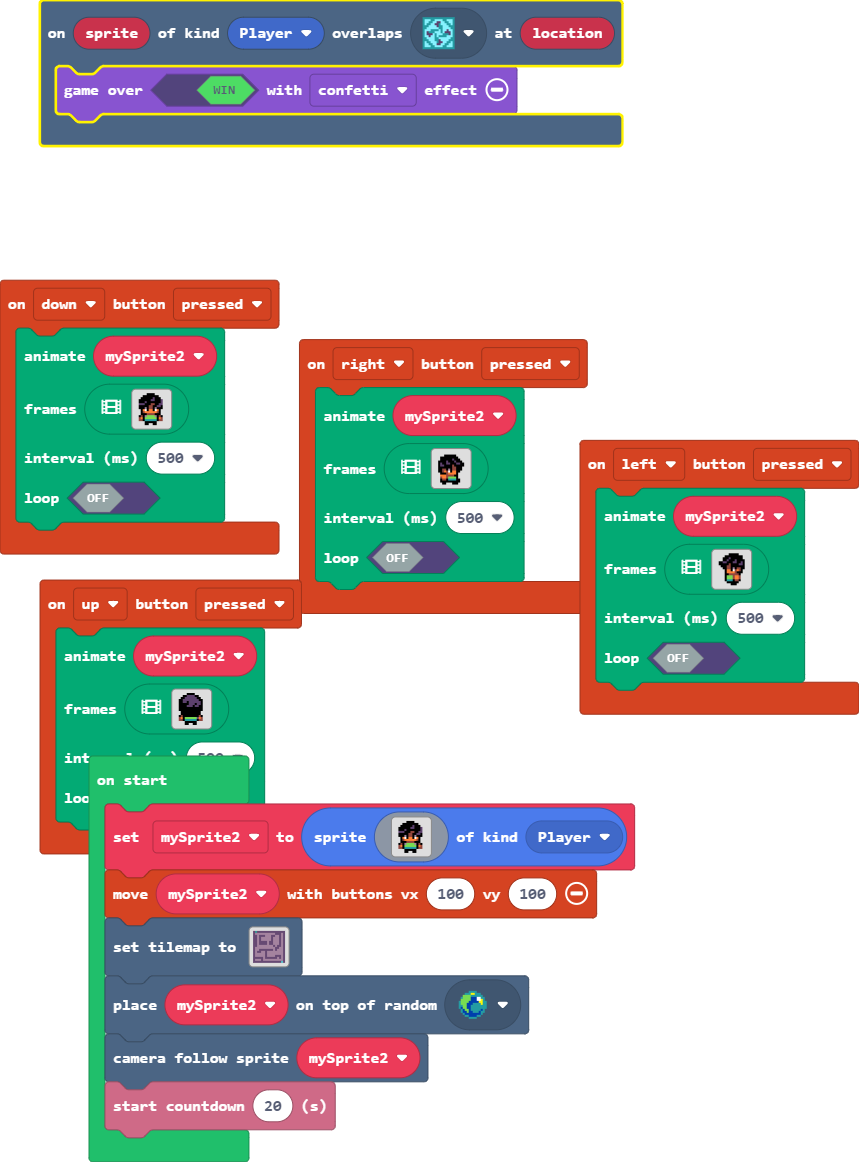
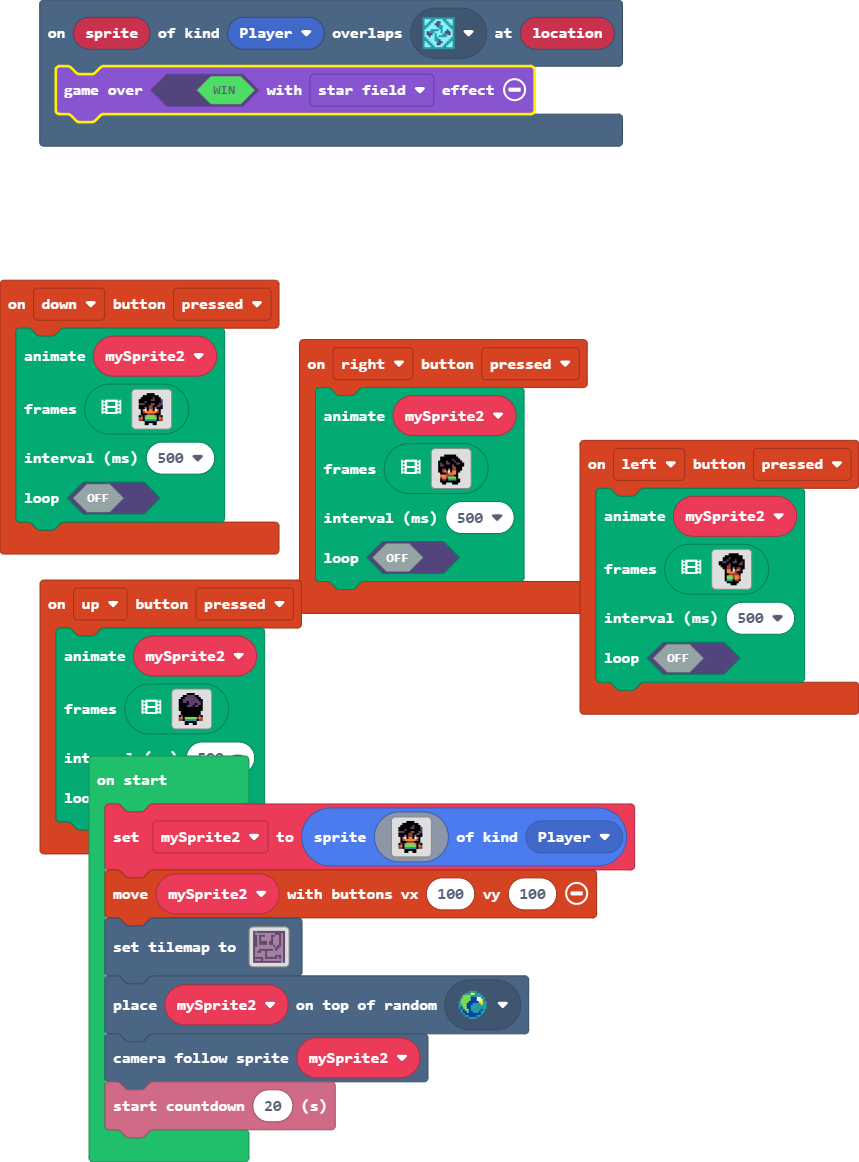
Update main.blocks, main.ts, tilemap.g.jres, tilemap.g.ts

Changed region(s): [[0.0605, 0.0, 0.7264, 0.1549], [0.0303, 0.0, 0.0605, 0.1239]]

diff --git a/tilemap.g.ts b/tilemap.g.ts
@@ -83,6 +83,25 @@ namespace myTiles {
 . . . . . . . . . . . . . . . . 
 . . . . . . . . . . . . . . . . 
 `, [myTiles.transparency16], TileScale.Sixteen);
+            case "level3":
+            case "level3":return tiles.createTilemap(hex`1000100000000000000000000000000000000000000000000000000000000000000000000000000000000000000000000000000000000000000000000000000000000000000000000000000000000000000000000000000000000000000000000000000000000000000000000000000000000000000000000000000000000000000000000000000000000000000000000000000000000000000000000000000000000000000000000000000000000000000000000000000000000000000000000000000000000000000000000000000000000000000000000000000000000000000000000000000000000000000000000000000000000000000000000000000000000000`, img`
+. . . . . . . . . . . . . . . . 
+. . . . . . . . . . . . . . . . 
+. . . . . . . . . . . . . . . . 
+. . . . . . . . . . . . . . . . 
+. . . . . . . . . . . . . . . . 
+. . . . . . . . . . . . . . . . 
+. . . . . . . . . . . . . . . . 
+. . . . . . . . . . . . . . . . 
+. . . . . . . . . . . . . . . . 
+. . . . . . . . . . . . . . . . 
+. . . . . . . . . . . . . . . . 
+. . . . . . . . . . . . . . . . 
+. . . . . . . . . . . . . . . . 
+. . . . . . . . . . . . . . . . 
+. . . . . . . . . . . . . . . . 
+. . . . . . . . . . . . . . . . 
+`, [myTiles.transparency16], TileScale.Sixteen);
         }
         return null;
     })

diff --git a/main.ts b/main.ts
@@ -235,7 +235,7 @@ controller.down.onEvent(ControllerButtonEvent.Pressed, function () {
     )
 })
 scene.onOverlapTile(SpriteKind.Player, sprites.dungeon.collectibleInsignia, function (sprite, location) {
-    game.over(true, effects.confetti)
+    game.over(true, effects.starField)
 })
 let mySprite2: Sprite = null
 mySprite2 = sprites.create(img`
